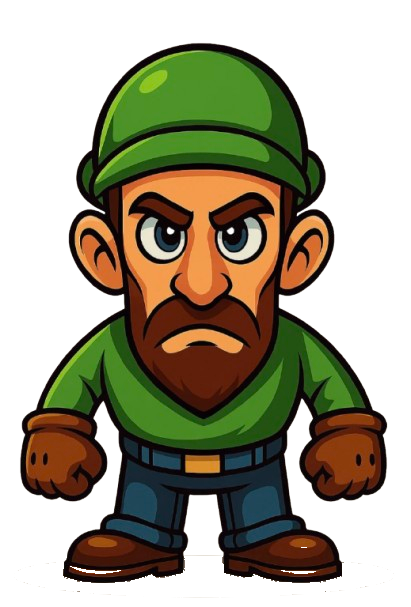
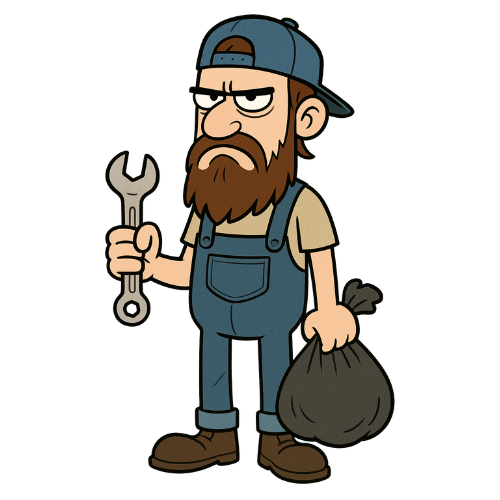
Update garbageman image and script.js

diff --git a/script.js b/script.js
@@ -420,8 +420,8 @@ class OrdiBird {
     
     spawnGarbageMan() {
         // Always spawn at the same height along the bottom of the screen
-        // Image is 120px tall, so position it so feet are at bottom of screen
-        const walkY = this.canvasHeight - 120; // Position so feet are at bottom
+        // Image is 180px tall, so position it so feet are at bottom of screen
+        const walkY = this.canvasHeight - 180; // Position so feet are at bottom
         
         this.garbageMan = {
             x: this.canvasWidth + 50, // Start off screen to the right
@@ -479,8 +479,10 @@ class OrdiBird {
         if (this.garbageMan) {
             const manX = this.garbageMan.x;
             const manY = this.garbageMan.y;
-            const manWidth = 40;
-            const manHeight = 60;
+            // Calculate width based on natural aspect ratio
+            const manWidth = this.garbageManImage.complete ? 
+                (this.garbageManImage.naturalWidth / this.garbageManImage.naturalHeight) * 180 : 120;
+            const manHeight = 180;
             
             // More precise collision detection for the garbage man
             if (this.bitcoin.x < manX + manWidth &&
@@ -785,18 +787,22 @@ class OrdiBird {
         this.ctx.fillRect(x + 5, y + 10, 8, height - 20);
         this.ctx.fillRect(x + this.garbageCanWidth - 13, y + 10, 8, height - 20);
         
-        // Hinged lid (partially open) - facing opposite direction
+        // Center seam line down the middle
+        this.ctx.fillStyle = '#404040';
+        this.ctx.fillRect(x + this.garbageCanWidth / 2 - 2, y + 10, 4, height - 20);
+        
+        // Hinged lid (partially open) - facing left
         this.ctx.fillStyle = '#808080';
         this.ctx.save();
         this.ctx.translate(x + this.garbageCanWidth / 2, y);
-        this.ctx.rotate(Math.PI / 4); // 45 degree angle in opposite direction
+        this.ctx.rotate(Math.PI / 4); // 45 degree angle facing left
         this.ctx.fillRect(-this.garbageCanWidth / 2 - 2, -8, this.garbageCanWidth + 4, 12);
         this.ctx.restore();
         
-        // Lid handle
+        // Lid handle - positioned on top of the lid
         this.ctx.fillStyle = '#5a5a5a';
-        this.ctx.fillRect(x + 15, y - 10, 20, 6);
-        this.ctx.fillRect(x + 20, y - 15, 10, 8);
+        this.ctx.fillRect(x + this.garbageCanWidth / 2 - 10, y - 15, 20, 6);
+        this.ctx.fillRect(x + this.garbageCanWidth / 2 - 5, y - 20, 10, 8);
         
         // Wheels at the bottom
         this.ctx.fillStyle = '#808080';
@@ -922,8 +928,10 @@ class OrdiBird {
         // Draw the garbage man image
         if (this.garbageManImage.complete) {
             // Image is loaded, draw it
-            const imageWidth = 80; // Adjust size as needed
-            const imageHeight = 120; // Adjust size as needed
+            // Use natural aspect ratio to avoid distortion
+            const baseHeight = 180; // Back to original size
+            const imageWidth = (this.garbageManImage.naturalWidth / this.garbageManImage.naturalHeight) * baseHeight;
+            const imageHeight = baseHeight;
             
             // Add walking animation by slightly moving the image up and down
             const walkBounce = Math.sin(this.garbageMan.animationFrame * 2) * 2;
